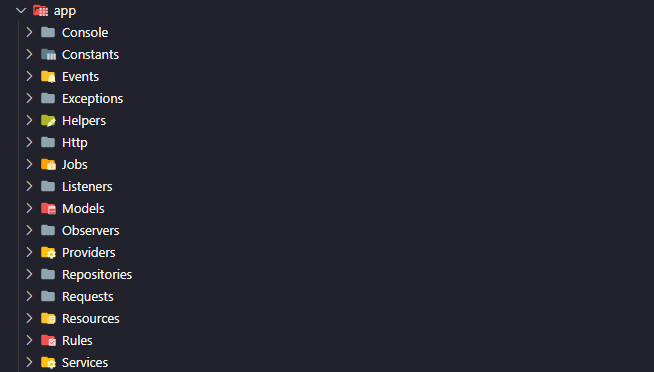
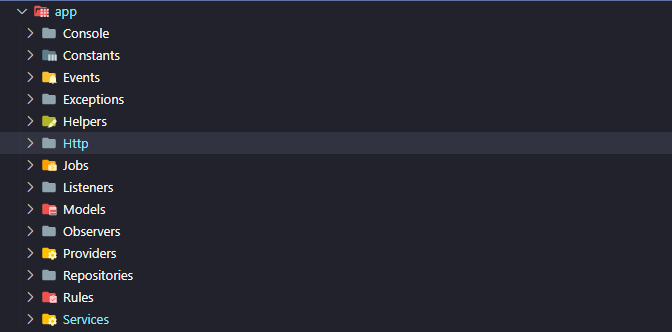
Refactor: folder structure

Changed region(s): [[0.0306, 0.5422, 0.2141, 0.994], [0.0, 0.0, 0.1835, 0.512]]

diff --git a/app/Services/Transfer/TransferService.php b/app/Services/Transfer/TransferService.php
@@ -18,7 +18,7 @@ use App\Constants\EnvironmentConstant;
 use App\Exceptions\Transfer\TransferValidateDataException;
 use App\Exceptions\ExternalAuthorizer\ExternalAuthorizerException;
 use App\Jobs\Transfer\TransferNotificationJob;
-use App\Resources\Transfer\TransferResource;
+use App\Http\Resources\Transfer\TransferResource;
 
 class TransferService implements TransferServiceInterface
 {

diff --git a/app/Http/Controllers/V1/TransferController.php b/app/Http/Controllers/V1/TransferController.php
@@ -5,7 +5,7 @@ namespace App\Http\Controllers\V1;
 use Illuminate\Http\Request;
 use Illuminate\Http\JsonResponse;
 use App\Http\Controllers\Controller;
-use App\Requests\Transfer\TransferHandleRequest;
+use App\Http\Requests\Transfer\TransferHandleRequest;
 use App\Services\Transfer\Contracts\TransferServiceInterface;
 
 class TransferController extends Controller

diff --git a/tests/Integration/app/Http/Controllers/V1/TransferControllerTest.php b/tests/Integration/app/Http/Controllers/V1/TransferControllerTest.php
@@ -4,7 +4,7 @@ use Laravel\Lumen\Testing\DatabaseMigrations;
 use Carbon\Carbon;
 use App\Models\User;
 use App\Models\Transaction;
-use App\Resources\Transfer\TransferResource;
+use App\Http\Resources\Transfer\TransferResource;
 use App\Constants\HttpStatusConstant;
 
 class TransferControllerTest extends TestCase

diff --git a/app/Http/Resources/Transfer/TransferResource.php b/app/Http/Resources/Transfer/TransferResource.php
@@ -1,6 +1,6 @@
 <?php
 
-namespace App\Resources\Transfer;
+namespace App\Http\Resources\Transfer;
 
 use Illuminate\Http\Resources\Json\JsonResource;
 use App\Helpers\FormatHelper;

diff --git a/app/Http/Requests/Transfer/TransferHandleRequest.php b/app/Http/Requests/Transfer/TransferHandleRequest.php
@@ -1,6 +1,6 @@
 <?php
 
-namespace App\Requests\Transfer;
+namespace App\Http\Requests\Transfer;
 
 use App\Rules\DocumentRule;
 use App\Rules\ShopkeeperDoesNotTransferRule;
